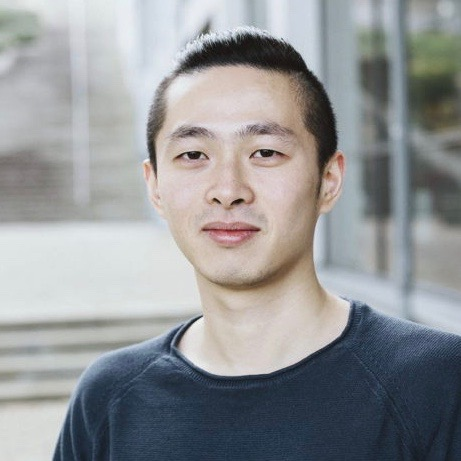
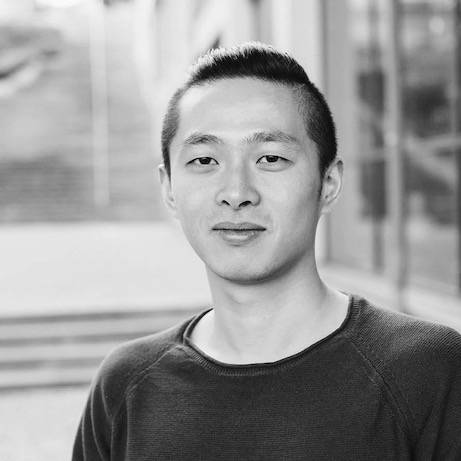
Fix typo

diff --git a/post/texttagspred/index.html b/post/texttagspred/index.html
@@ -718,8 +718,8 @@ them into vectors. In order to do this, we will use <code class="verbatim">Tfidf
 preprocess, tokenize, filter stop words and transform the text data. The
 <code class="verbatim">TfidfVectorizer</code> implements the
 <a href="https://en.wikipedia.org/wiki/Tf%E2%80%93idf"><em>tf-idf</em></a> (Term
-Frequency-Inverse Deocument Frequency) to reflect how important a word
-is to to a docuemnt in a collection of documents.
+Frequency-Inverse Document Frequency) to reflect how important a word
+is to to a document in a collection of documents.
 </p>
 <div class="src src-python">
 <div class="highlight"><pre style="color:#f8f8f2;background-color:#272822;-moz-tab-size:4;-o-tab-size:4;tab-size:4"><code class="language-python" data-lang="python"><span style="color:#f92672">from</span> sklearn.feature_extraction.text <span style="color:#f92672">import</span> TfidfVectorizer
@@ -1154,7 +1154,7 @@ However, there&#39;s much room for improvement. Another problem to be though abo
   <div class="media author-card">
     
       
-      <img class="portrait mr-3" src="/authors/admin/avatar_hu4079b1a087300ec54e2e7a1b37c78e50_49934_250x250_fill_q90_lanczos_center.jpg" alt="Avatar">
+      <img class="portrait mr-3" src="/authors/admin/avatar_huf79fbb756ad93d32a2794d68e8fd33ec_47015_250x250_fill_q90_lanczos_center.jpg" alt="Avatar">
     
 
     <div class="media-body">

diff --git a/post/skin-lesion-cls/index.html b/post/skin-lesion-cls/index.html
@@ -1489,7 +1489,7 @@ df_results_lesion.columns = ['Recall', 'Precision', 'F1', 'MCC', 'ACC']
   <div class="media author-card">
     
       
-      <img class="portrait mr-3" src="/authors/admin/avatar_hu4079b1a087300ec54e2e7a1b37c78e50_49934_250x250_fill_q90_lanczos_center.jpg" alt="Avatar">
+      <img class="portrait mr-3" src="/authors/admin/avatar_huf79fbb756ad93d32a2794d68e8fd33ec_47015_250x250_fill_q90_lanczos_center.jpg" alt="Avatar">
     
 
     <div class="media-body">

diff --git a/post/houseprice/index.html b/post/houseprice/index.html
@@ -1980,7 +1980,7 @@ submit(ids_test, pred, 'elastic_net')
   <div class="media author-card">
     
       
-      <img class="portrait mr-3" src="/authors/admin/avatar_hu4079b1a087300ec54e2e7a1b37c78e50_49934_250x250_fill_q90_lanczos_center.jpg" alt="Avatar">
+      <img class="portrait mr-3" src="/authors/admin/avatar_huf79fbb756ad93d32a2794d68e8fd33ec_47015_250x250_fill_q90_lanczos_center.jpg" alt="Avatar">
     
 
     <div class="media-body">

diff --git a/post/swift-brief-intro/index.html b/post/swift-brief-intro/index.html
@@ -575,7 +575,7 @@
   <div class="media author-card">
     
       
-      <img class="portrait mr-3" src="/authors/admin/avatar_hu4079b1a087300ec54e2e7a1b37c78e50_49934_250x250_fill_q90_lanczos_center.jpg" alt="Avatar">
+      <img class="portrait mr-3" src="/authors/admin/avatar_huf79fbb756ad93d32a2794d68e8fd33ec_47015_250x250_fill_q90_lanczos_center.jpg" alt="Avatar">
     
 
     <div class="media-body">

diff --git a/post/web-notes/index.html b/post/web-notes/index.html
@@ -579,7 +579,7 @@
   <div class="media author-card">
     
       
-      <img class="portrait mr-3" src="/authors/admin/avatar_hu4079b1a087300ec54e2e7a1b37c78e50_49934_250x250_fill_q90_lanczos_center.jpg" alt="Avatar">
+      <img class="portrait mr-3" src="/authors/admin/avatar_huf79fbb756ad93d32a2794d68e8fd33ec_47015_250x250_fill_q90_lanczos_center.jpg" alt="Avatar">
     
 
     <div class="media-body">

diff --git a/project/linkedinfo/index.html b/project/linkedinfo/index.html
@@ -584,7 +584,7 @@
   <div class="media author-card">
     
       
-      <img class="portrait mr-3" src="/authors/admin/avatar_hu4079b1a087300ec54e2e7a1b37c78e50_49934_250x250_fill_q90_lanczos_center.jpg" alt="Avatar">
+      <img class="portrait mr-3" src="/authors/admin/avatar_huf79fbb756ad93d32a2794d68e8fd33ec_47015_250x250_fill_q90_lanczos_center.jpg" alt="Avatar">
     
 
     <div class="media-body">

diff --git a/project/skin-lesion-classifier/index.html b/project/skin-lesion-classifier/index.html
@@ -598,7 +598,7 @@
   <div class="media author-card">
     
       
-      <img class="portrait mr-3" src="/authors/admin/avatar_hu4079b1a087300ec54e2e7a1b37c78e50_49934_250x250_fill_q90_lanczos_center.jpg" alt="Avatar">
+      <img class="portrait mr-3" src="/authors/admin/avatar_huf79fbb756ad93d32a2794d68e8fd33ec_47015_250x250_fill_q90_lanczos_center.jpg" alt="Avatar">
     
 
     <div class="media-body">

diff --git a/authors/admin/index.html b/authors/admin/index.html
@@ -379,7 +379,7 @@
 
       
       
-      <img class="portrait" src="/authors/admin/avatar_hu4079b1a087300ec54e2e7a1b37c78e50_49934_250x250_fill_q90_lanczos_center.jpg" alt="Avatar">
+      <img class="portrait" src="/authors/admin/avatar_huf79fbb756ad93d32a2794d68e8fd33ec_47015_250x250_fill_q90_lanczos_center.jpg" alt="Avatar">
       
 
       <div class="portrait-title">

diff --git a/index.html b/index.html
@@ -440,7 +440,7 @@
 
       
       
-      <img class="portrait" src="/authors/admin/avatar_hu4079b1a087300ec54e2e7a1b37c78e50_49934_250x250_fill_q90_lanczos_center.jpg" alt="Avatar">
+      <img class="portrait" src="/authors/admin/avatar_huf79fbb756ad93d32a2794d68e8fd33ec_47015_250x250_fill_q90_lanczos_center.jpg" alt="Avatar">
       
 
       <div class="portrait-title">
